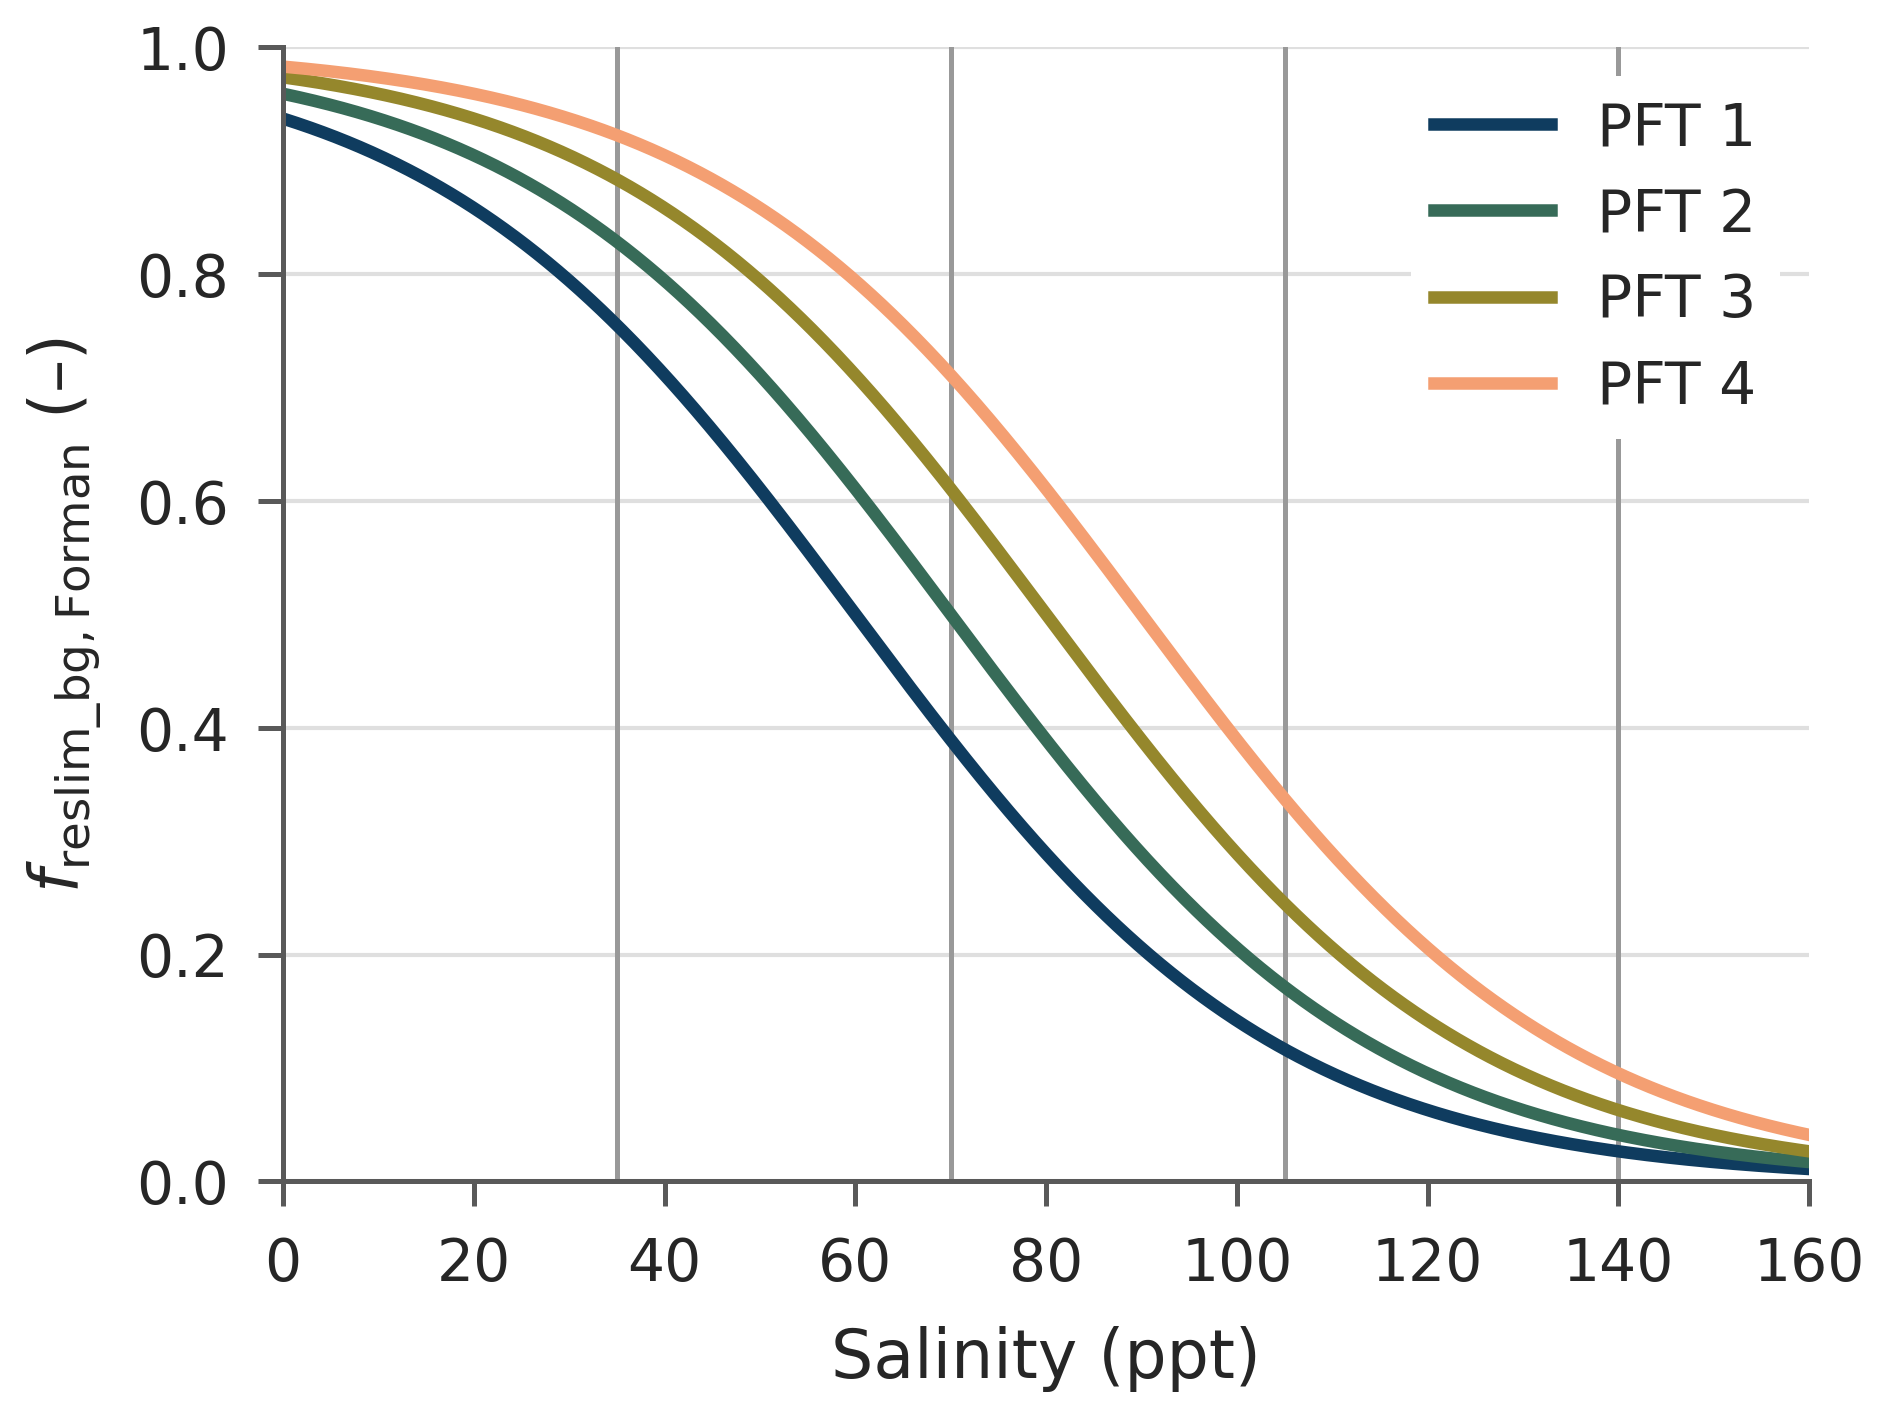
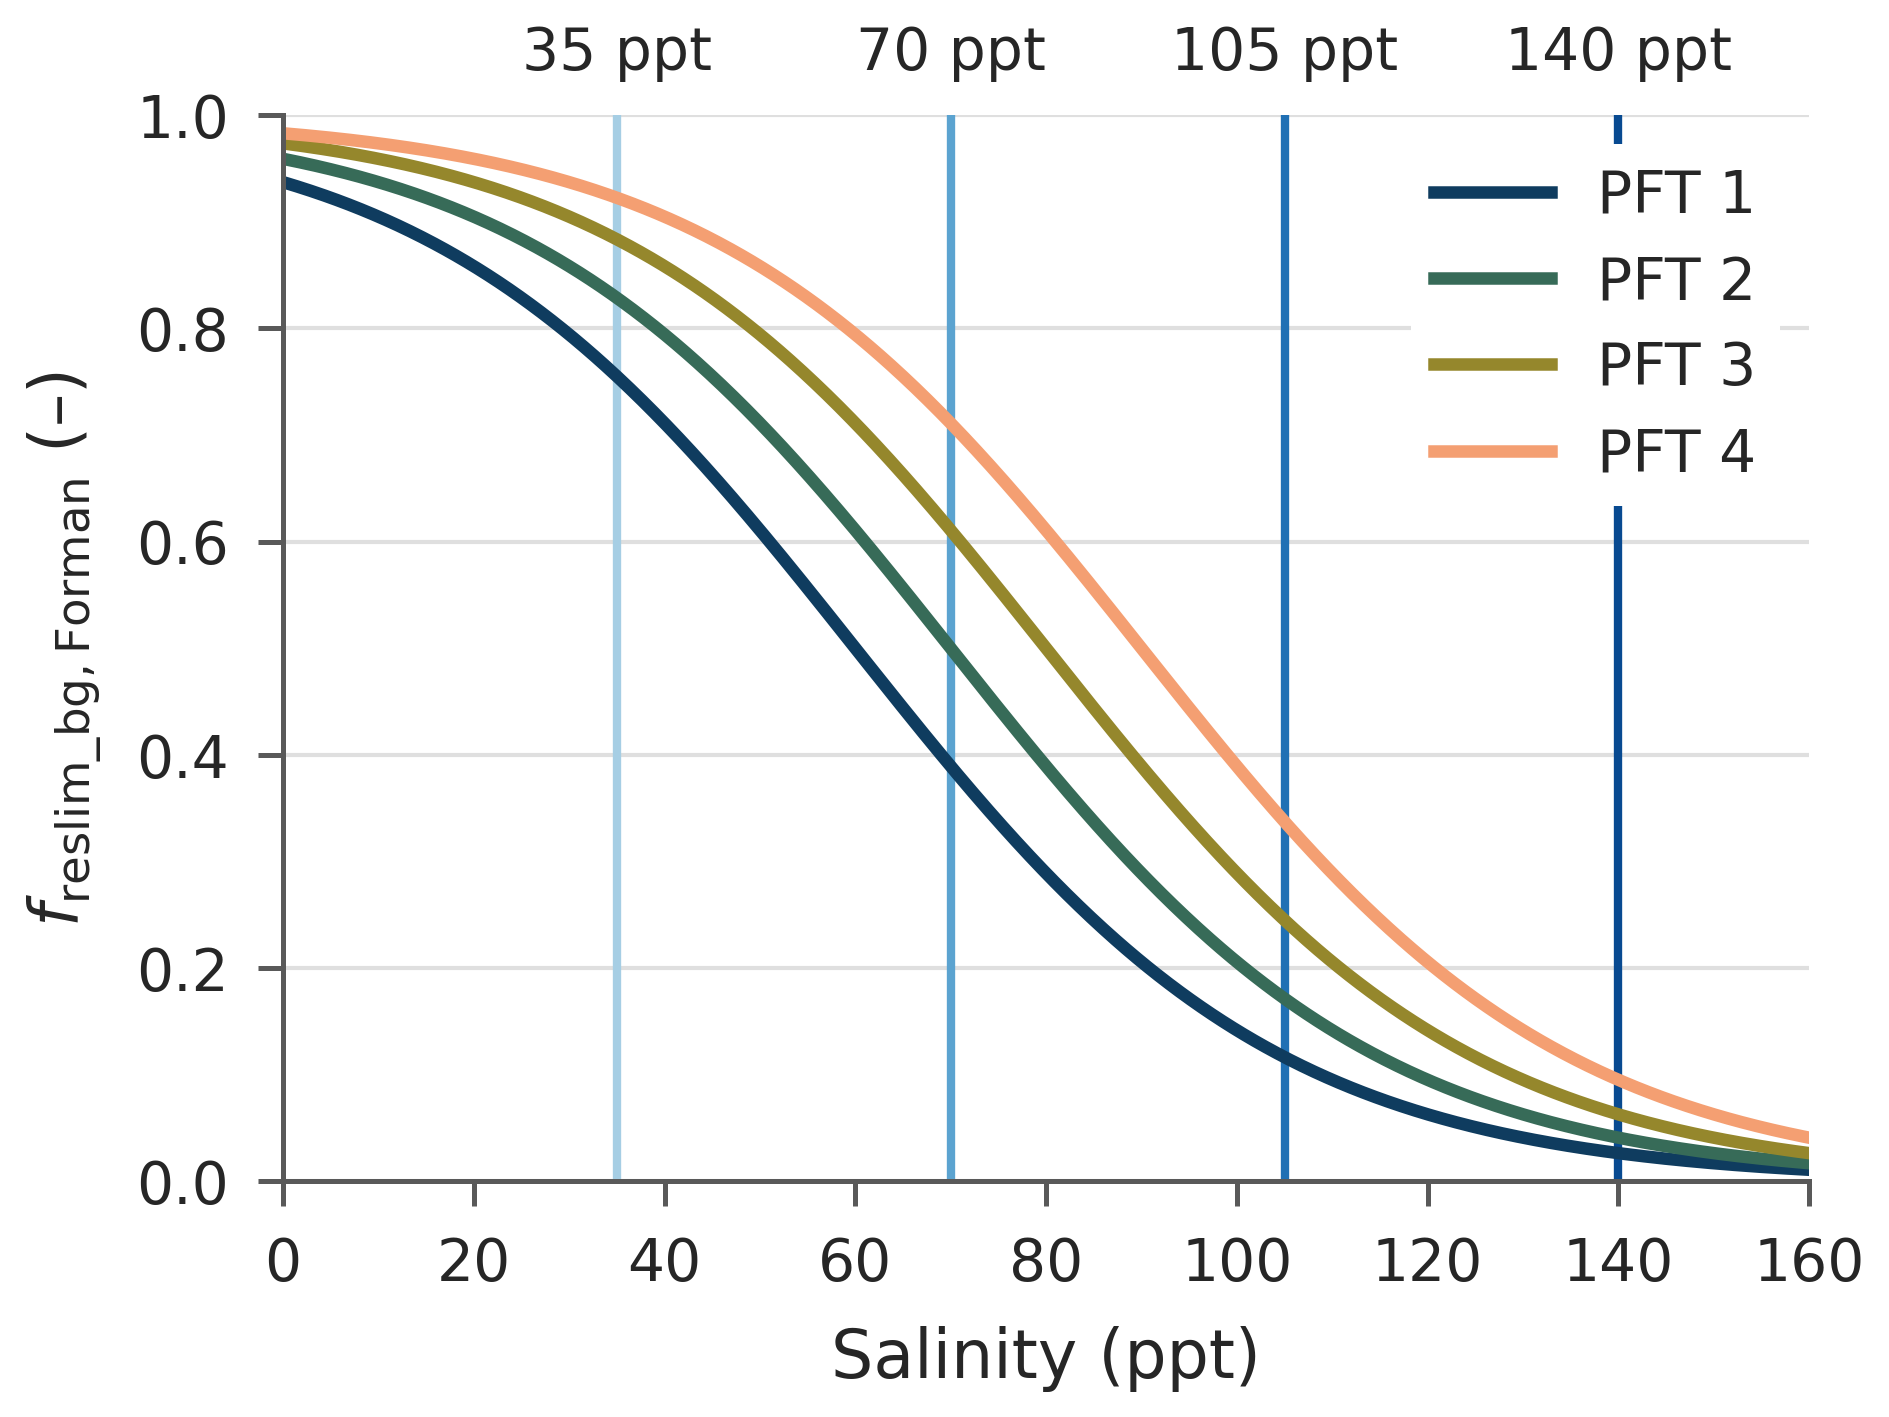
Add scenario lines for the salinities

diff --git a/source/02_fig1_salinity_response.py b/source/02_fig1_salinity_response.py
@@ -2,8 +2,8 @@
 Figure 1: salinity response curves of the four PFTs.
 
 Plots the belowground resource limitation (Forman logistic function) over
-salinity, with the parameters read from the species files. Vertical lines
-mark the static salinities of the simulations.
+salinity, with the parameters read from the species files. Coloured vertical
+lines and labels mark the static salinities of the simulations.
 
 Input:  model_input/species/Saltmarsh_{1-4}.py
 Output: figures/main/fig1_salinity_response.png
@@ -40,7 +40,12 @@ def main():
     # Reference lines at the simulated static salinities. The grid is
     # horizontal only, so these are the only vertical lines.
     for salinity in config.SAL_STATIC:
-        ax.axvline(salinity, color="0.6", linewidth=0.6, zorder=1)
+        ax.axvline(salinity, color=config.salinity_color_map[salinity], linewidth=1.0, zorder=1)
+        ax.annotate(
+            f"{salinity} ppt", xy=(salinity, 1), xycoords=("data", "axes fraction"),
+            xytext=(0, 4), textcoords="offset points", ha="center", va="bottom",
+            fontsize=plt.rcParams["xtick.labelsize"], annotation_clip=False,
+        )
 
     ax.set_xlabel("Salinity (ppt)")
     ax.set_ylabel(r"$f_{\mathrm{reslim\_bg,Forman}}$ (–)")
